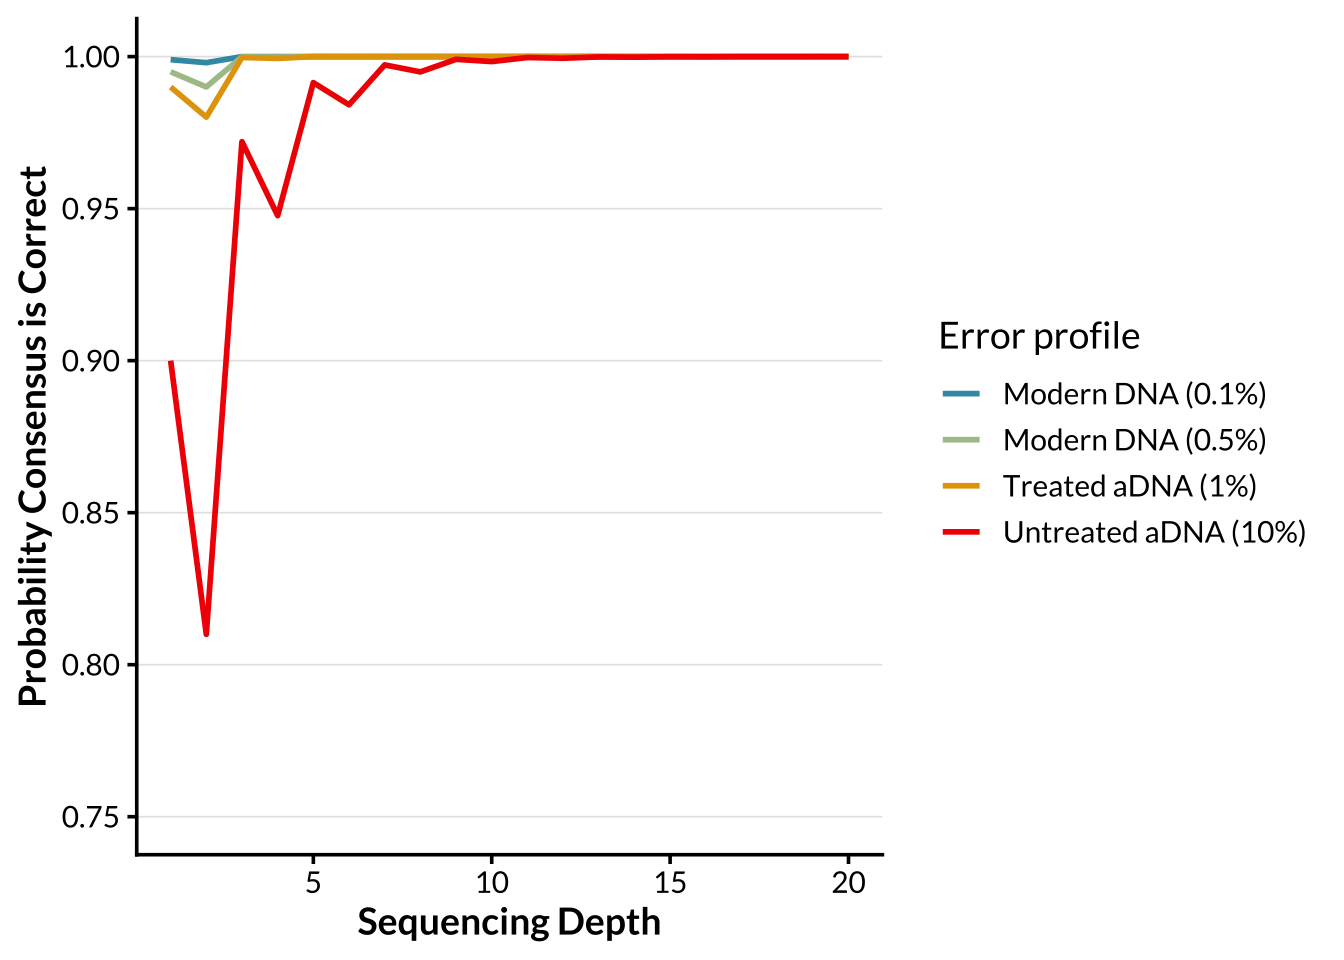
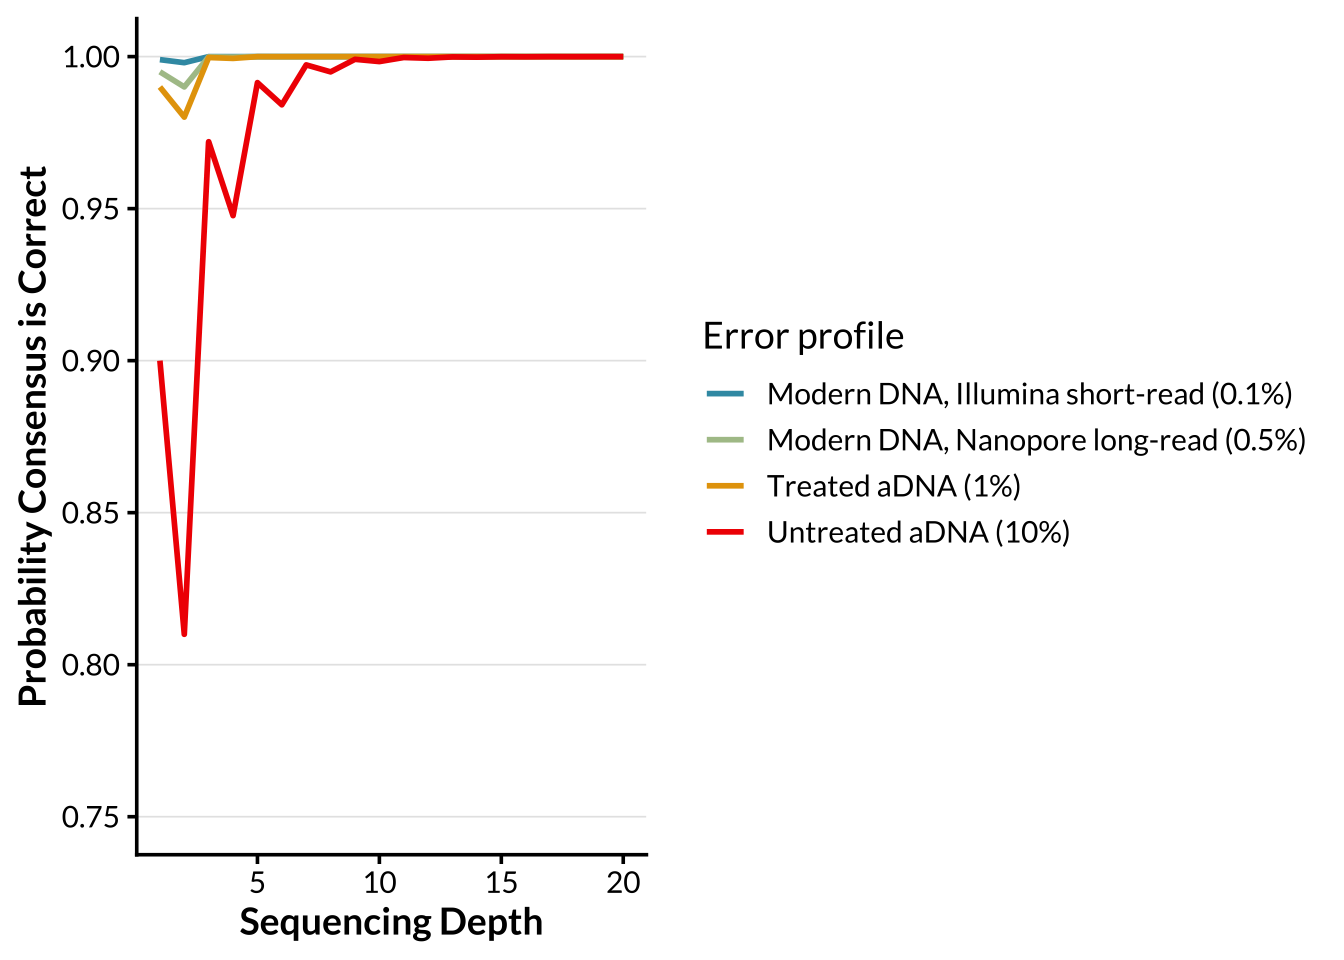
Build site.

Changed region(s): [[0.5312, 0.3438, 0.9688, 0.5625], [0.0938, 0.0312, 0.625, 0.6562], [0.1562, 0.875, 0.6562, 1.0]]

diff --git a/docs/depth.html b/docs/depth.html
@@ -395,7 +395,7 @@ class="glyphicon glyphicon-ok text-success" aria-hidden="true"></span>
 <div class="tab-content">
 <div id="summary" class="tab-pane fade in active">
 <p>
-<strong>Last updated:</strong> 2026-04-09
+<strong>Last updated:</strong> 2026-04-14
 </p>
 <p>
 <strong>Checks:</strong> <span
@@ -526,15 +526,15 @@ project makes it easier to run your code on other machines.</p>
 <div class="panel panel-default">
 <div class="panel-heading">
 <p class="panel-title">
-<a data-toggle="collapse" data-parent="#workflowr-checks" href="#strongRepositoryversionstrongahrefhttpsgithubcomlilyhealdPAINTtree6ebf6fdac3dc9595ac1dea43873c26e323a82457targetblank6ebf6fda">
+<a data-toggle="collapse" data-parent="#workflowr-checks" href="#strongRepositoryversionstrongahrefhttpsgithubcomlilyhealdPAINTtreec6c417e529e71740c37c8c39215c1cb0ff597995targetblankc6c417ea">
 <span class="glyphicon glyphicon-ok text-success"
 aria-hidden="true"></span> <strong>Repository version:</strong>
-<a href="https://github.com/lilyheald/PAINT/tree/6ebf6fdac3dc9595ac1dea43873c26e323a82457" target="_blank">6ebf6fd</a>
+<a href="https://github.com/lilyheald/PAINT/tree/c6c417e529e71740c37c8c39215c1cb0ff597995" target="_blank">c6c417e</a>
 </a>
 </p>
 </div>
 <div
[2 lines of base64/hex data omitted]
 class="panel-collapse collapse">
 <div class="panel-body">
 <p>
@@ -544,7 +544,7 @@ reproducibility.
 </p>
 <p>
 The results in this page were generated with repository version
-<a href="https://github.com/lilyheald/PAINT/tree/6ebf6fdac3dc9595ac1dea43873c26e323a82457" target="_blank">6ebf6fd</a>.
+<a href="https://github.com/lilyheald/PAINT/tree/c6c417e529e71740c37c8c39215c1cb0ff597995" target="_blank">c6c417e</a>.
 See the <em>Past versions</em> tab to see a history of the changes made
 to the R Markdown and HTML files.
 </p>
@@ -565,35 +565,80 @@ Ignored files:
     Ignored:    analysis/.Rhistory
     Ignored:    analysis/.Rproj.user/
     Ignored:    analysis/depth_spinoff.Rmd
-    Ignored:    data/ancient.bed
-    Ignored:    data/ancient.bim
-    Ignored:    data/ancient.fam
-    Ignored:    data/ancient.log
+    Ignored:    data/allele_ref.txt
     Ignored:    data/ancient.projected.log
+    Ignored:    data/ancient_aligned.bed
+    Ignored:    data/ancient_aligned.bim
+    Ignored:    data/ancient_aligned.fam
+    Ignored:    data/ancient_aligned.log
     Ignored:    data/ancient_depth.csv
     Ignored:    data/ancient_depth_clean.csv
+    Ignored:    data/ancient_matched.bed
+    Ignored:    data/ancient_matched.bim
+    Ignored:    data/ancient_matched.fam
+    Ignored:    data/ancient_matched.log
     Ignored:    data/ancient_metadata.csv
-    Ignored:    data/ancient_sgdp_wg.vcf.gz
-    Ignored:    data/ancient_sgdp_wg.vcf.gz.csi
+    Ignored:    data/ancient_pigment.bed
+    Ignored:    data/ancient_pigment.bim
+    Ignored:    data/ancient_pigment.fam
+    Ignored:    data/ancient_pigment.log
+    Ignored:    data/ancient_pigmentation.bed
+    Ignored:    data/ancient_pigmentation.bim
+    Ignored:    data/ancient_pigmentation.fam
+    Ignored:    data/ancient_pigmentation.log
+    Ignored:    data/ancient_pigmentation.projected.log
+    Ignored:    data/ancient_pigmentation.vcf.gz
+    Ignored:    data/ancient_pigmentation.vcf.gz.tbi
+    Ignored:    data/ancient_temp.bed
+    Ignored:    data/ancient_temp.bim
+    Ignored:    data/ancient_temp.fam
+    Ignored:    data/ancient_temp.log
+    Ignored:    data/ancient_temp.pgen
+    Ignored:    data/ancient_temp.psam
+    Ignored:    data/ancient_temp.pvar
+    Ignored:    data/modern_matched.bed
+    Ignored:    data/modern_matched.bim
+    Ignored:    data/modern_matched.fam
+    Ignored:    data/modern_matched.log
+    Ignored:    data/modern_matched.pgen
+    Ignored:    data/modern_matched.psam
+    Ignored:    data/modern_matched.pvar
     Ignored:    data/modern_metadata.csv
     Ignored:    data/neo_uvi.csv
+    Ignored:    data/pigmentation.cleaned.log
+    Ignored:    data/pigmentation.cleaned.pgen
+    Ignored:    data/pigmentation.cleaned.psam
+    Ignored:    data/pigmentation.cleaned.pvar
+    Ignored:    data/pigmentation.freq.afreq
+    Ignored:    data/pigmentation.freq.log
+    Ignored:    data/pigmentation.pca.eigenvec.allele
+    Ignored:    data/pigmentation.pca.log
+    Ignored:    data/pigmentation_freq.log
+    Ignored:    data/pigmentation_merged-merge.psam
+    Ignored:    data/pigmentation_merged-merge.pvar
+    Ignored:    data/pigmentation_merged.log
+    Ignored:    data/pigmentation_snps.bed
+    Ignored:    data/pigmentation_snps.bim
     Ignored:    data/pigmentation_snps.csv
+    Ignored:    data/pigmentation_snps.fam
+    Ignored:    data/pigmentation_snps.fixed.bed
+    Ignored:    data/pigmentation_snps.fixed.bim
+    Ignored:    data/pigmentation_snps.fixed.fam
+    Ignored:    data/pigmentation_snps.fixed.log
+    Ignored:    data/pigmentation_snps.fixed.pgen
+    Ignored:    data/pigmentation_snps.fixed.psam
+    Ignored:    data/pigmentation_snps.fixed.pvar
+    Ignored:    data/pigmentation_snps.vcf.gz
+    Ignored:    data/pigmentation_snps.vcf.gz.tbi
+    Ignored:    data/pigmentation_snps_freq.afreq
     Ignored:    data/sgdp.wg.afreq
     Ignored:    data/sgdp.wg.fixed.afreq
     Ignored:    data/sgdp.wg.pca.eigenvec.allele
-    Ignored:    data/sgdp.wg.pca.log
-    Ignored:    data/sgdp.wg.pruned.log
-    Ignored:    data/sgdp.wg.pruned.prune.in
-    Ignored:    data/sgdp.wg.pruned.prune.out
-    Ignored:    data/sgdp.wg.vcf.gz
-    Ignored:    data/sgdp.wg.vcf.gz.csi
     Ignored:    data/simons_metadata.csv
     Ignored:    data/simons_whole.csv
+    Ignored:    plink2.log
     Ignored:    plink2.zip
     Ignored:    test.log
-
-Unstaged changes:
-    Modified:   analysis/index.Rmd
 
 </code></pre>
 <p>
@@ -637,6 +682,40 @@ Message
 </tr>
 </thead>
 <tbody>
+<tr>
+<td>
+Rmd
+</td>
+<td>
+<a href="https://github.com/lilyheald/PAINT/blob/c6c417e529e71740c37c8c39215c1cb0ff597995/analysis/depth.Rmd" target="_blank">c6c417e</a>
+</td>
+<td>
+Lily Heald
+</td>
+<td>
+2026-04-14
+</td>
+<td>
+Add position-dependent model
+</td>
+</tr>
+<tr>
+<td>
+html
+</td>
+<td>
+<a href="https://rawcdn.githack.com/lilyheald/PAINT/01f0325530ce628faa1d005af7a9854eee8b0043/docs/depth.html" target="_blank">01f0325</a>
+</td>
+<td>
+Lily Heald
+</td>
+<td>
+2026-04-09
+</td>
+<td>
+Ignore unfinished analyses
+</td>
+</tr>
 <tr>
 <td>
 html
@@ -973,8 +1052,8 @@ stack snp distribution
 depth refers to the number of times a specific nucleotide was sequenced.
 A higher sequencing depth confers more confidence in the accuracy of the
 base calls, as it reduces the likelihood of technical errors in
-sequencing.
-<img src="figure/depth.Rmd/depth_sim-1.png" alt="" width="672" style="display: block; margin: auto;" /></p>
+sequencing.</p>
+<p><img src="figure/depth.Rmd/depth_sim-1.png" alt="" width="672" style="display: block; margin: auto;" /></p>
 <p>
 <button type="button" class="btn btn-default btn-xs btn-workflowr btn-workflowr-fig" data-toggle="collapse" data-target="#fig-depth_sim-1">
 Past versions of depth_sim-1.png
@@ -1012,6 +1091,117 @@ Lily Heald
 </table>
 </div>
 </div>
+<pre class="r"><code># params
+max_depth &lt;- 20
+profiles &lt;- c(&quot;illumina&quot;, &quot;nanopore&quot;, &quot;udg&quot;, &quot;untreated&quot;)
+labels &lt;- c(
+  &quot;illumina&quot;  = &quot;Modern DNA, Illumina short-read (0.1%)&quot;,
+  &quot;nanopore&quot;  = &quot;Modern DNA, Nanopore Q20+ (0.5%)&quot;,
+  &quot;udg&quot;       = &quot;UDG-treated aDNA (1% interior, 2% ends)&quot;,
+  &quot;untreated&quot; = &quot;Untreated aDNA (5% interior, 20% ends)&quot;
+)
+
+# IID model
+simulate_confidence_constant &lt;- function(depth, error_rate) {
+  p_correct &lt;- 1 - error_rate
+  k &lt;- floor(depth / 2) + 1
+  1 - pbinom(k - 1, size = depth, prob = p_correct)
+}
+
+# position-dependent model
+simulate_confidence_positional &lt;- function(depth, read_length,
+                                           p_interior,
+                                           p_end,
+                                           lambda = 0.3,
+                                           n_sim = 1000) {
+  p_error_pos &lt;- function(pos) {
+    dist_to_end &lt;- pmin(pos - 1, read_length - pos)
+    p_interior + (p_end - p_interior) * exp(-lambda * dist_to_end)
+  }
+  successes &lt;- replicate(n_sim, {
+    # Each read gets its own position
+    positions &lt;- sample(1:read_length, depth, replace = TRUE)
+    p_errors &lt;- p_error_pos(positions)
+    
+    calls &lt;- rbinom(depth, size = 1, prob = 1 - p_errors)
+    
+    sum(calls) &gt;= (floor(depth / 2) + 1)
+  })
+  
+  mean(successes)
+}
+
+# simulation
+df &lt;- expand.grid(
+  depth = 1:max_depth,
+  profile = profiles,
+  model = c(&quot;Constant error&quot;, &quot;Position-dependent error&quot;)
+) %&gt;%
+  as_tibble() %&gt;%
+  mutate(
+    confidence = pmap_dbl(list(depth, profile, model), function(d, prof, mod) {
+      # CONSTANT MODEL
+      if (mod == &quot;Constant error&quot;) {
+        err &lt;- switch(prof,
+                      &quot;illumina&quot;  = 0.001,
+                      &quot;nanopore&quot;  = 0.005,
+                      &quot;udg&quot;       = 0.01,
+                      &quot;untreated&quot; = 0.10)
+        
+        return(simulate_confidence_constant(d, err))
+      }
+      
+      # POSITION-DEPENDENT MODEL
+      if (prof == &quot;illumina&quot;) {
+        simulate_confidence_positional(d, 50, 0.001, 0.001)
+      } else if (prof == &quot;nanopore&quot;) {
+        simulate_confidence_positional(d, 50, 0.005, 0.005)
+      } else if (prof == &quot;udg&quot;) {
+        simulate_confidence_positional(d, 50,
+                                       p_interior = 0.01,
+                                       p_end = 0.02,
+                                       lambda = 0.5)
+      } else if (prof == &quot;untreated&quot;) {
+        simulate_confidence_positional(d, 50,
+                                       p_interior = 0.05,
+                                       p_end = 0.20,
+                                       lambda = 0.3)
+      }
+    }),
+    
+    profile = factor(profile, levels = profiles, labels = labels),
+    model = factor(model, levels = c(&quot;Constant error&quot;, &quot;Position-dependent error&quot;))
+  )</code></pre>
+<pre><code>Warning: There were 80 warnings in `mutate()`.
+The first warning was:
+ℹ In argument: `confidence = pmap_dbl(...)`.
+Caused by warning in `switch()`:
+! EXPR is a &quot;factor&quot;, treated as integer.
+ Consider using &#39;switch(as.character( * ), ...)&#39; instead.
+ℹ Run `dplyr::last_dplyr_warnings()` to see the 79 remaining warnings.</code></pre>
+<pre class="r"><code># plot
+wes_cols &lt;- wes_palette(&quot;Zissou1&quot;, length(profiles), type = &quot;continuous&quot;)
+names(wes_cols) &lt;- levels(df$profile)
+
+ggplot(df, aes(x = depth, y = confidence, color = profile, linetype = model)) +
+  geom_line(linewidth = 1) +
+  scale_color_manual(values = wes_cols) +
+  labs(
+    x = &quot;Sequencing Depth&quot;,
+    y = &quot;Probability Consensus is Correct&quot;,
+    color = &quot;Error profile&quot;,
+    linetype = &quot;Model&quot;
+  ) +
+  coord_cartesian(ylim = c(0.75, 1)) +
+  theme_classic(base_family = &quot;lato&quot;, base_size = 14) +
+  theme(
+    axis.title = element_text(face = &quot;bold&quot;),
+    axis.text = element_text(color = &quot;black&quot;),
+    panel.grid.major.y = element_line(color = &quot;grey90&quot;, linewidth = 0.3),
+    panel.grid.major.x = element_blank(),
+    legend.position = &quot;right&quot;
+  )</code></pre>
+<p><img src="figure/depth.Rmd/positional_mod-1.png" alt="" width="672" style="display: block; margin: auto;" /></p>
 <p>Sequencing read alignments were processed using samtools. The input
 BAM file was first indexed, then coordinate-sorted and re-indexed to
 ensure compatibility with downstream analyses. Read depth was calculated
